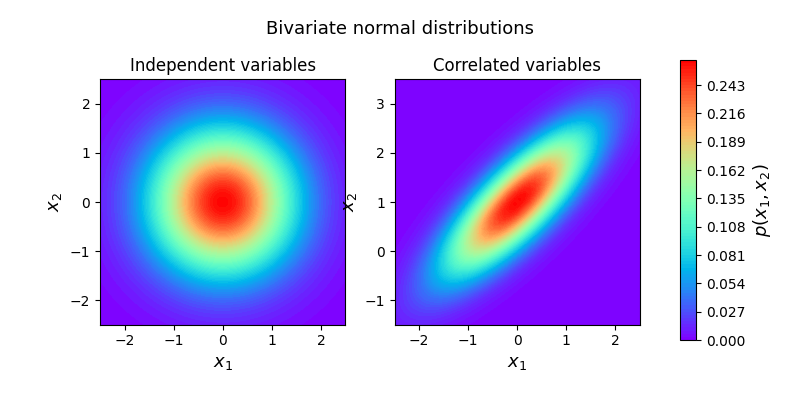
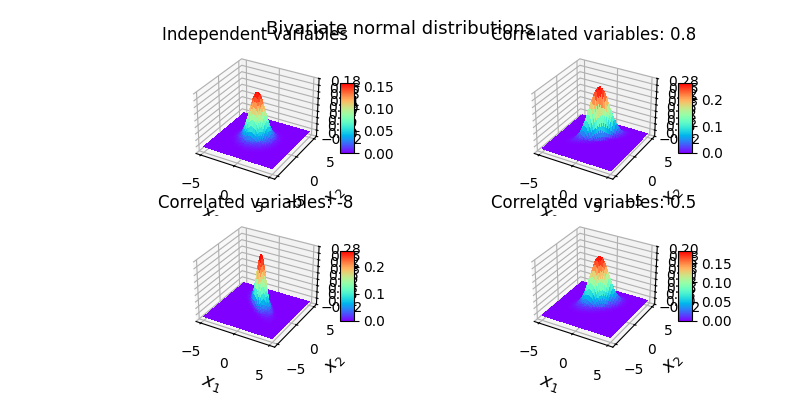
comple gaussian distribution

diff --git a/bivariate_gaussian.py b/bivariate_gaussian.py
@@ -1,14 +1,15 @@
 import numpy as np
 import matplotlib.pyplot as plt
+from matplotlib.ticker import LinearLocator
 
 
-def multivariate_normal(x, d, mean, covariance):
+def bivariate_normal(x, d, mean, covariance):
     """pdf of the multivariate normal distribution."""
     x_m = x - mean
     determinant = np.linalg.det(covariance)
     inverse = np.linalg.inv(covariance)
     x_m_transpose = np.transpose(x_m)
-    return  (
+    return (
         1.0
         / (np.sqrt((2 * np.pi) ** d * determinant))
         * np.exp(-(x_m_transpose * inverse * x_m) / 2)
@@ -26,46 +27,65 @@ def generate_surface(mean, covariance, d):
     # Fill the cost matrix for each combination of weights
     for i in range(nb_of_x):
         for j in range(nb_of_x):
-            pdf[i, j] = multivariate_normal(
+            pdf[i, j] = bivariate_normal(
                 np.matrix([[x1[i, j]], [x2[i, j]]]), d, mean, covariance
             )
     return x1, x2, pdf  # x1, x2, pdf(x1,x2)
 
 
+def plot_surface(ax, X, Y, Z, title) -> None:
+    # Plot the surface.
+    # fig, ax = plt.subplots(subplot_kw={"projection": "3d"})
+    surf = ax.plot_surface(X, Y, Z, cmap="rainbow", linewidth=0, antialiased=False)
+
+    # Customize the z axis.
+    ax.set_zlim(Z.min() - 0.02, Z.max() + 0.02)
+    ax.zaxis.set_major_locator(LinearLocator(10))
+    # A StrMethodFormatter is used automatically
+    ax.zaxis.set_major_formatter("{x:.02f}")
+
+    ax.set_title(title, fontsize=12)
+    ax.set_xlabel("$x_1$", fontsize=13)
+    ax.set_ylabel("$x_2$", fontsize=13)
+
+    # Add a color bar which maps values to colors.
+    fig.colorbar(surf, shrink=0.5, aspect=5)
+
+
+def plot_distribution(ax, title: str, mean: list, covariance: list, d: int) -> None:
+    bivariate_mean = np.matrix(mean)  # Mean
+    bivariate_covariance = np.matrix(covariance)  # Covariance
+    x1, x2, p = generate_surface(bivariate_mean, bivariate_covariance, d)
+    plot_surface(ax, x1, x2, p, title)
+
+
 if __name__ == "__main__":
     # subplot
-    fig, (ax1, ax2) = plt.subplots(nrows=1, ncols=2, figsize=(8, 4))
+    fig, axes = plt.subplots(
+        nrows=2, ncols=2, figsize=(8, 4), subplot_kw={"projection": "3d"}
+    )
     d = 2  # number of dimensions
 
     # Plot of independent Normals
-    bivariate_mean = np.matrix([[0.0], [0.0]])  # Mean
-    bivariate_covariance = np.matrix([[1.0, 0.0], [0.0, 1.0]])  # Covariance
-    x1, x2, p = generate_surface(bivariate_mean, bivariate_covariance, d)
-    # Plot bivariate distribution
-    con = ax1.contourf(x1, x2, p, 100, cmap="rainbow")
-    ax1.set_xlabel("$x_1$", fontsize=13)
-    ax1.set_ylabel("$x_2$", fontsize=13)
-    ax1.axis([-2.5, 2.5, -2.5, 2.5])
-    ax1.set_aspect("equal")
-    ax1.set_title("Independent variables", fontsize=12)
+    plot_distribution(
+        axes[0, 0], "Independent variables", [[0.0], [0.0]], [[1.0, 0.0], [0.0, 1.0]], d
+    )
 
     # Plot of correlated Normals
-    bivariate_mean = np.matrix([[0.0], [1.0]])  # Mean
-    bivariate_covariance = np.matrix([[1.0, 0.8], [0.8, 1.0]])  # Covariance
-    x1, x2, p = generate_surface(bivariate_mean, bivariate_covariance, d)
-    # Plot bivariate distribution
-    con = ax2.contourf(x1, x2, p, 100, cmap="rainbow")
-    ax2.set_xlabel("$x_1$", fontsize=13)
-    ax2.set_ylabel("$x_2$", fontsize=13)
-    ax2.axis([-2.5, 2.5, -1.5, 3.5])
-    ax2.set_aspect("equal")
-    ax2.set_title("Correlated variables", fontsize=12)
+    plot_distribution(
+        axes[0, 1], "Correlated variables: 0.8", [[0.0], [1.0]], [[1.0, 0.8], [0.8, 1.0]], d
+    )
 
-    # Add colorbar and title
-    fig.subplots_adjust(right=0.8)
-    cbar_ax = fig.add_axes([0.85, 0.15, 0.02, 0.7])
-    cbar = fig.colorbar(con, cax=cbar_ax)
-    cbar.ax.set_ylabel("$p(x_1, x_2)$", fontsize=13)
+    # Plot of correlated Normals
+    plot_distribution(
+        axes[1, 0], "Correlated variables: -8", [[0.0], [1.0]], [[1.0, -0.8], [-0.8, 1.0]], d
+    )
+
+    # Plot of correlated Normals
+    plot_distribution(
+        axes[1, 1], "Correlated variables: 0.5", [[0.0], [1.0]], [[1.0, 0.5], [0.5, 1.0]], d
+    )
+
     plt.suptitle("Bivariate normal distributions", fontsize=13, y=0.95)
     plt.savefig("Bivariate_normal_distributon")
     plt.show()

diff --git a/multivariate_gaussian.py b/multivariate_gaussian.py
@@ -1,0 +1,76 @@
+import numpy as np
+import matplotlib.pyplot as plt
+
+
+def multivariate_normal(x, d, mean, covariance):
+    """pdf of the multivariate normal distribution."""
+    x_m = x - mean
+    determinant = np.linalg.det(covariance)
+    inverse = np.linalg.inv(covariance)
+    x_m_transpose = np.transpose(x_m)
+    return (
+        1.0
+        / (np.sqrt((2 * np.pi) ** d * determinant))
+        * np.exp(-(x_m_transpose * inverse * x_m) / 2)
+    )
+
+
+# Plot bivariate distribution
+def generate_surface(mean, covariance, d):
+    """Helper function to generate density surface."""
+    nb_of_x = 100  # grid size
+    x1s = np.linspace(-5, 5, num=nb_of_x)
+    x2s = np.linspace(-5, 5, num=nb_of_x)
+    x3s = np.linspace(-5, 5, num=nb_of_x)
+    x1, x2, x3 = np.meshgrid(x1s, x2s, x3s)  # Generate grid
+    pdf = np.zeros((nb_of_x, nb_of_x, nb_of_x))
+    # Fill the cost matrix for each combination of weights
+    for i in range(nb_of_x):
+        for j in range(nb_of_x):
+            for k in range(nb_of_x):
+                pdf[i, j, k] = multivariate_normal(
+                    np.matrix([[x1[i, j, k]], [x2[i, j, k]], [x3[i, j, k]]]), d, mean, covariance
+                )
+    return x1, x2, x3, pdf  # x1, x2, pdf(x1,x2)
+
+
+if __name__ == "__main__":
+    # subplot
+    fig, (ax1, ax2) = plt.subplots(nrows=1, ncols=2, figsize=(8, 4))
+    d = 3  # number of dimensions
+
+    # Plot of independent Normals
+    multivariate_mean = np.matrix([[0.0], [0.0], [0.0]])  # Mean
+    miltivariate_covariance = np.matrix(
+        [[1.0, 0.0, 0.0], [0.0, 1.0, 0.0], [0.0, 0.0, 1.0]]
+    )  # Covariance
+    x1, x2, x3, p = generate_surface(multivariate_mean, miltivariate_covariance, d)
+    breakpoint()
+    # Plot bivariate distribution
+    con = ax1.contourf(x1, x2, p, 100, cmap="rainbow")
+    ax1.set_xlabel("$x_1$", fontsize=13)
+    ax1.set_ylabel("$x_2$", fontsize=13)
+    ax1.axis([-2.5, 2.5, -2.5, 2.5])
+    ax1.set_aspect("equal")
+    ax1.set_title("Independent variables", fontsize=12)
+
+    # # Plot of correlated Normals
+    # bivariate_mean = np.matrix([[0.0], [1.0]])  # Mean
+    # bivariate_covariance = np.matrix([[1.0, 0.8], [0.8, 1.0]])  # Covariance
+    # x1, x2, p = generate_surface(bivariate_mean, bivariate_covariance, d)
+    # # Plot bivariate distribution
+    # con = ax2.contourf(x1, x2, p, 100, cmap="rainbow")
+    # ax2.set_xlabel("$x_1$", fontsize=13)
+    # ax2.set_ylabel("$x_2$", fontsize=13)
+    # ax2.axis([-2.5, 2.5, -1.5, 3.5])
+    # ax2.set_aspect("equal")
+    # ax2.set_title("Correlated variables", fontsize=12)
+
+    # Add colorbar and title
+    fig.subplots_adjust(right=0.8)
+    cbar_ax = fig.add_axes([0.85, 0.15, 0.02, 0.7])
+    cbar = fig.colorbar(con, cax=cbar_ax)
+    cbar.ax.set_ylabel("$p(x_1, x_2)$", fontsize=13)
+    plt.suptitle("Multivariate normal distributions", fontsize=13, y=0.95)
+    plt.savefig("Multivariate_normal_distributon")
+    plt.show()
